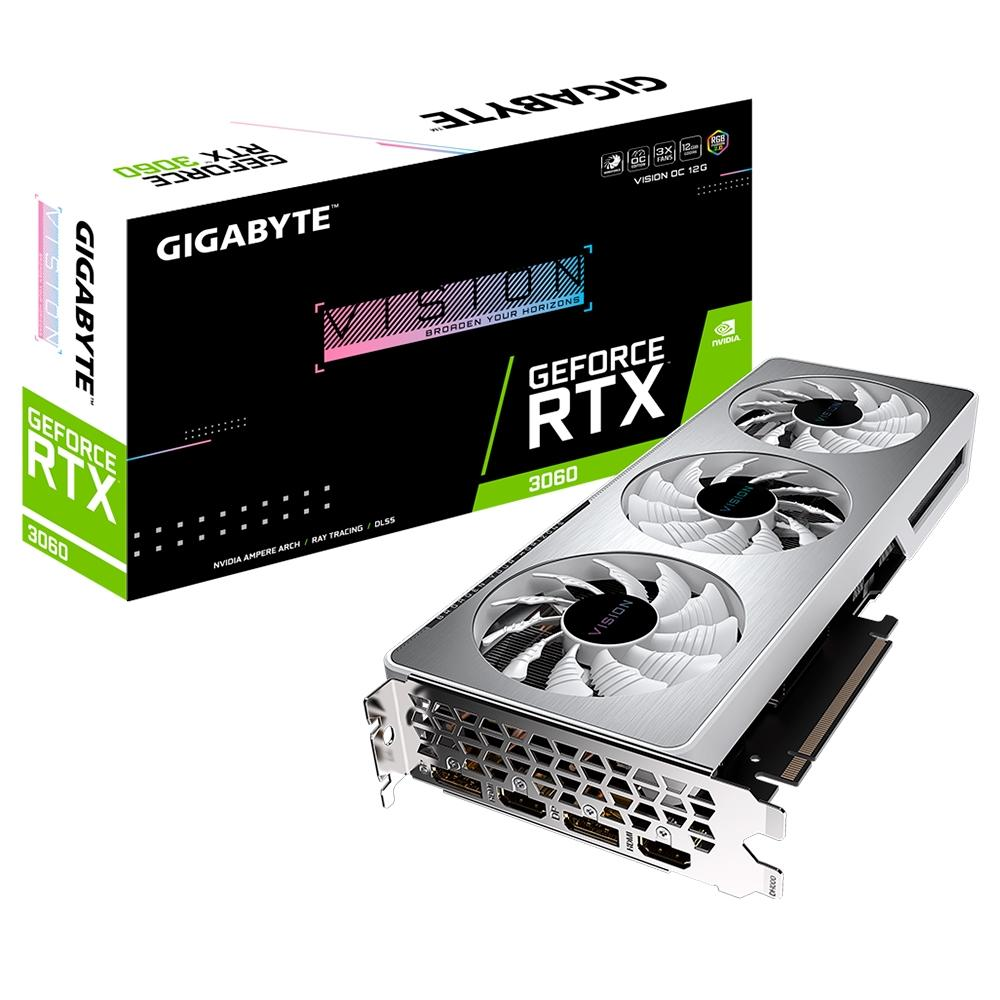
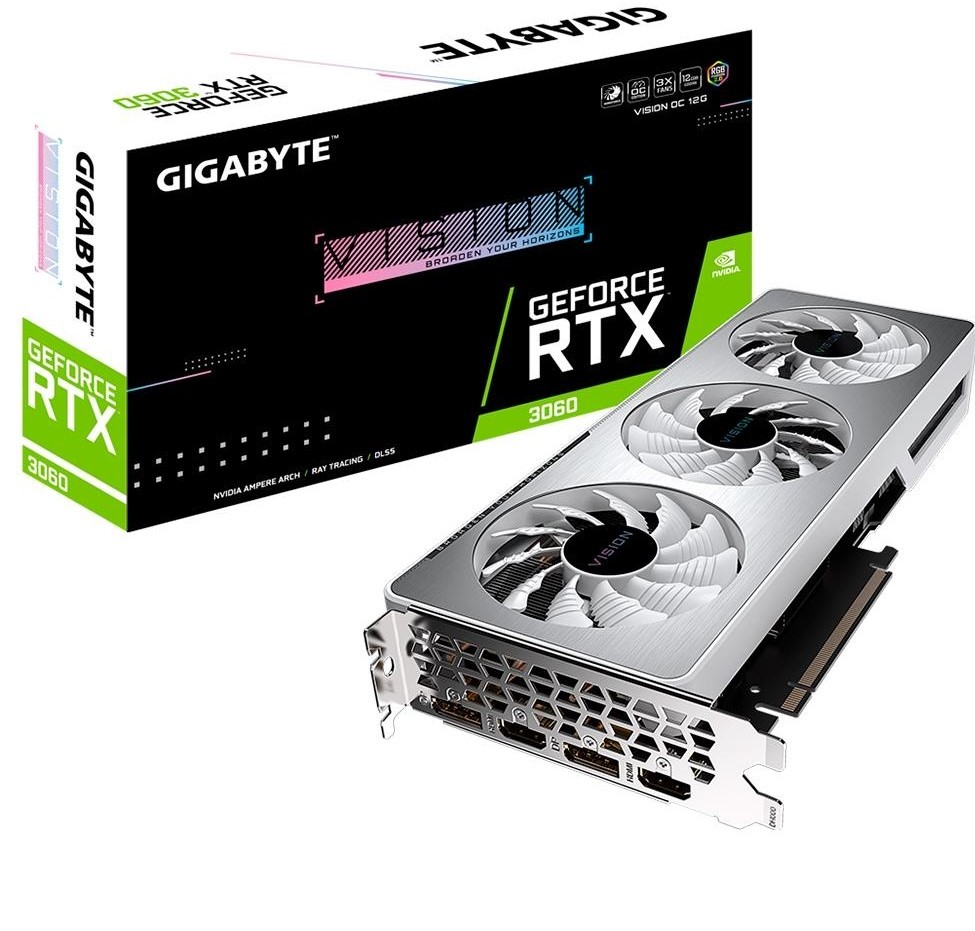
update javascript
up

Changed region(s): [[0.0, 0.0, 1.0, 0.9033], [0.1846, 0.3738, 0.2154, 0.4049]]

diff --git a/javascript/index.html b/javascript/index.html
@@ -9,7 +9,7 @@
 <body>
     <aside>
         <div>
-            <img src="imagens/rtxcaixa.jpg" alt="" width="100%" onclick="mostrarImagemAmpliada('imagens/rtxcaixa.jpg')">
+            <img src="imagens/rtxfrente.jpg" alt="" width="100%" onclick="mostrarImagemAmpliada('imagens/rtxfrente.jpg')">
         </div>
         <div>
             <img src="imagens/rtxlado.jpg" alt="" width="100%" onclick="mostrarImagemAmpliada('imagens/rtxlado.jpg')">

diff --git a/javascript/style.css b/javascript/style.css
@@ -7,8 +7,11 @@
 }
 body {
     font-family: 'Segoe UI';
-}
+    background-image: url(imagens/rtxcaixa.jpg);
+    background-size: 1400px;
+    background-repeat: no-repeat;
 
+}
 aside {
     width: 15%;
     min-height: 100%;

diff --git a/javascript/java.js b/javascript/java.js
@@ -10,3 +10,4 @@ function fecharImagemAmpliada() {
     var imagemAmpliadaOverlay = document.getElementById('imagem-ampliada-overlay');
     imagemAmpliadaOverlay.style.display = 'none';
 }
+
